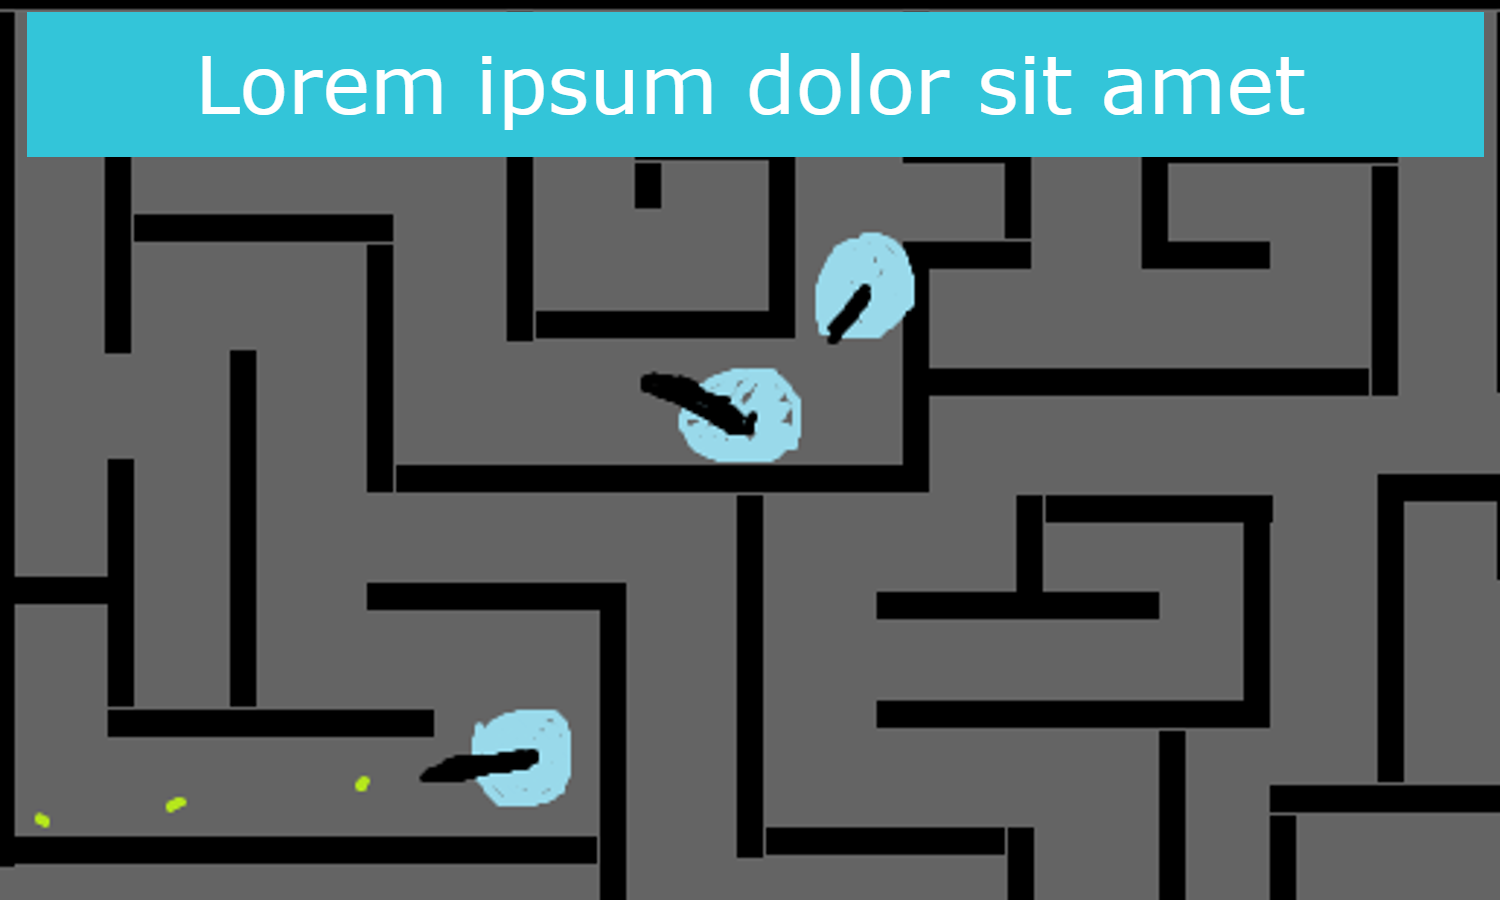
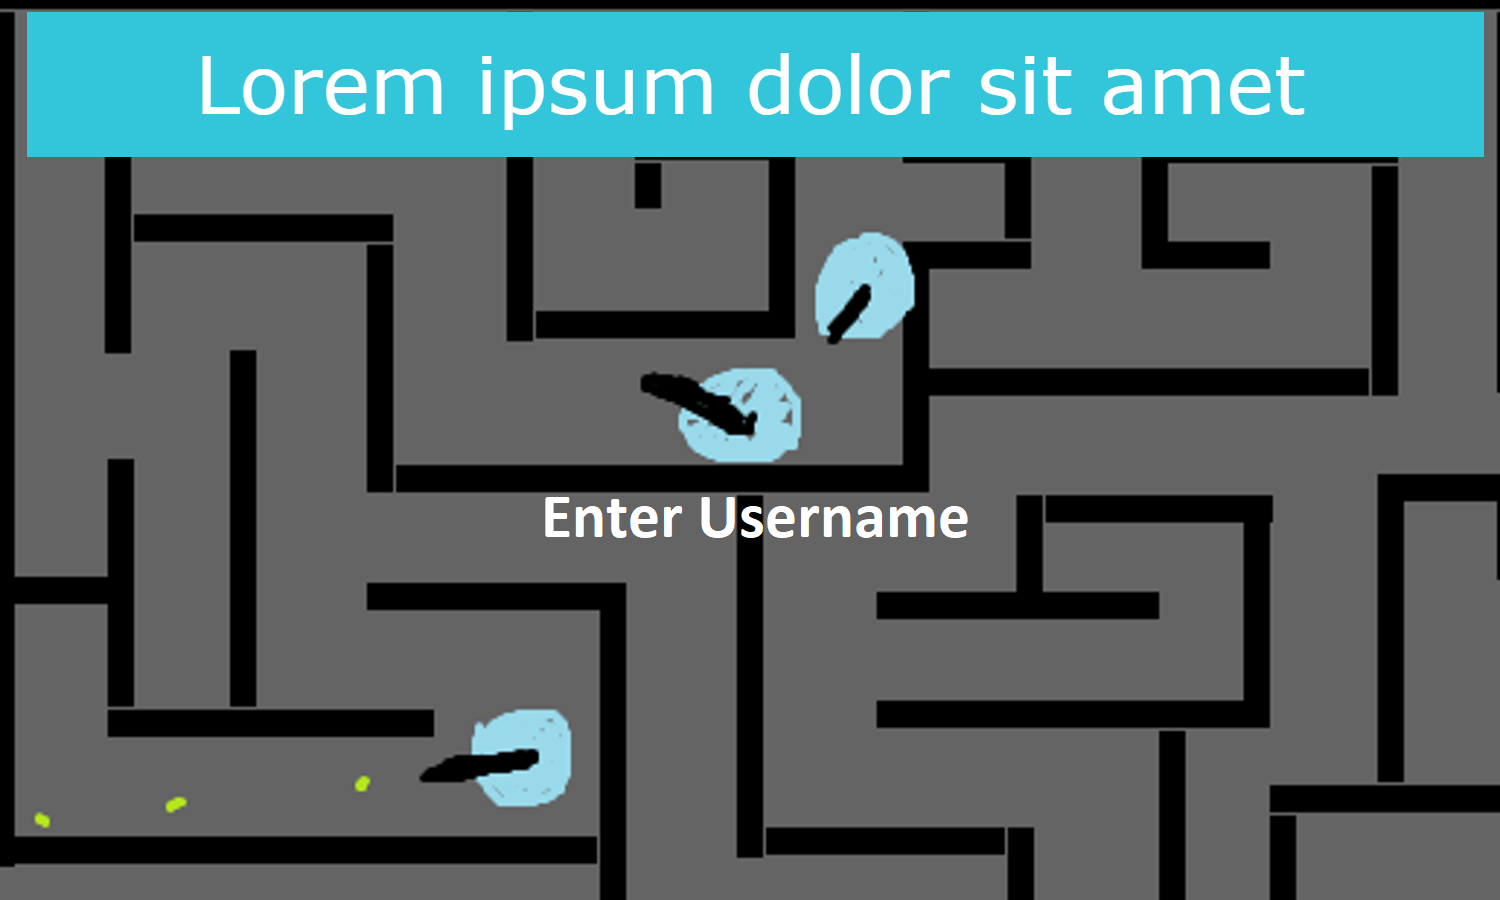
usernames

Changed region(s): [[0.3373, 0.56, 0.644, 0.6222]]

diff --git a/game/client.py b/game/client.py
@@ -52,6 +52,19 @@ class Game(pyglet.window.Window):
         self.usernameBox = InputBox(Vector2(750 - 300/2, 290 - 75/2), 300, 75)
 
         self.username = ''
+        self.ammo_label = pyglet.text.Label(f"string",
+                            font_name='serif',
+                            font_size=45,
+                            x=1350, y=100,
+                            anchor_x='center', anchor_y='center',
+                            color=(181,230,29, 255))
+
+        self.username_label = pyglet.text.Label(f"string",
+                            font_name='serif',
+                            font_size=15,
+                            x=1350, y=100,
+                            anchor_x='center', anchor_y='center',
+                            color=(181,230,29, 255))
 
     def on_key_press(self, symbol, modifiers):
         if symbol == key.BACKSPACE:
@@ -120,6 +133,7 @@ class Game(pyglet.window.Window):
             if not self.is_playing:
                 if Collision.PointOnRect(self.mouse_pos, Vector2(675, 118), 150, 65):
                     self.username = self.usernameBox.text
+                    self.client_data.username = self.username  # professionally:    set username to username
                     self.is_playing = True
                     self.client_data.joinedGame = True
     
@@ -163,8 +177,6 @@ class Game(pyglet.window.Window):
 
         self.just_recieved_server_data = False
 
-        print(self.username)
-
     #draw
     def on_draw(self):
         self.clear()
@@ -180,7 +192,13 @@ class Game(pyglet.window.Window):
             if not self.died:
                 self.PLAYERSPRITES[player_spectating.image_index].position = SCREENWIDTH / 2, SCREENHEIGHT / 2
                 self.PLAYERSPRITES[player_spectating.image_index].rotation = self.client_data.angle_looking
+
+                self.username_label.text = self.username
+                self.username_label.x = SCREENWIDTH / 2
+                self.username_label.y = SCREENHEIGHT / 2 + 55
+
                 self.PLAYERSPRITES[player_spectating.image_index].draw()
+                self.username_label.draw()
 
             # walls
             for i in range(0, len(Wall.wallBatch), 1):
@@ -190,14 +208,21 @@ class Game(pyglet.window.Window):
 
             # other players stuff
             for player in self.server_data.other_players:
+                tup = (player.pos + player_spectating.camera.offset).tuple()
                 # other players bullets
                 for bullet in player.gun.bullets:
                     BULLETSPRITE.position = (bullet.pos + player_spectating.camera.offset).tuple()
                     BULLETSPRITE.draw()
                 # other players sprites
-                self.PLAYERSPRITES[player.image_index].position = (player.pos + player_spectating.camera.offset).tuple()
+                self.PLAYERSPRITES[player.image_index].position = tup
                 self.PLAYERSPRITES[player.image_index].rotation = player.angle_looking
+
+                self.username_label.text = player.username
+                self.username_label.x = tup[0]
+                self.username_label.y = tup[1] + 55
+
                 self.PLAYERSPRITES[player.image_index].draw()
+                self.username_label.draw()
                 # other players gun
                 GUNSPRITE.position = (player.pos + player_spectating.camera.offset).tuple()
                 GUNSPRITE.rotation = player.angle_looking
@@ -210,14 +235,9 @@ class Game(pyglet.window.Window):
                 GUNSPRITE.draw()
 
             # draw ammo text
-            label = pyglet.text.Label(f"{self.server_data.player.gun.bullets_left}|{self.server_data.player.gun.clip_size}",
-                            font_name='serif',
-                            font_size=45,
-                            x=1350, y=100,
-                            anchor_x='center', anchor_y='center',
-                            color=(181,230,29, 255))
-            label.bold = True
-            label.draw()
+            self.ammo_label.text = f"{self.server_data.player.gun.bullets_left}|{self.server_data.player.gun.clip_size}"
+            self.ammo_label.bold = True
+            self.ammo_label.draw()
 
             if self.died:
                 LIMAGESPRITE.draw()

diff --git a/game/threadedClient.py b/game/threadedClient.py
@@ -71,6 +71,9 @@ class ThreadedClient:
         while True:
             self.client_data = pickle.loads(conn.recv(10000))
 
+            if self.client_data.username:
+                ThreadedClient.players[ID].username = self.client_data.username
+
             if self.client_data.joinedGame and self.justSpawned:
                 ThreadedClient.players[ID].pos = random.choice(ThreadedClient.spawningPoints)
                 self.justSpawned = False

diff --git a/game/sentStuff.py b/game/sentStuff.py
@@ -16,6 +16,7 @@ class ClientData:
         self.last_two_angles = [0, 0]
         self.respawn = False
         self.joinedGame = False
+        self.username = ""
 
 class ServerData:
     def __init__(self, player=None, other_players=None):

diff --git a/game/player.py b/game/player.py
@@ -32,6 +32,8 @@ class Player:
         self.time_last_hit = 0
         self.time_last_healed = 0
 
+        self.username = ''
+
     def Move(self, keys, dt):
         self.vel.Clear()
 
